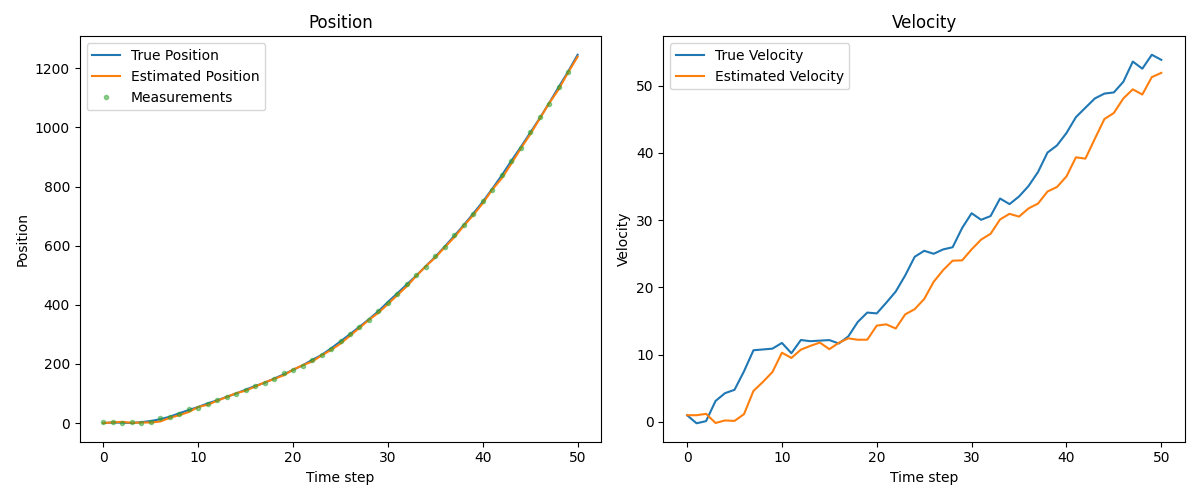
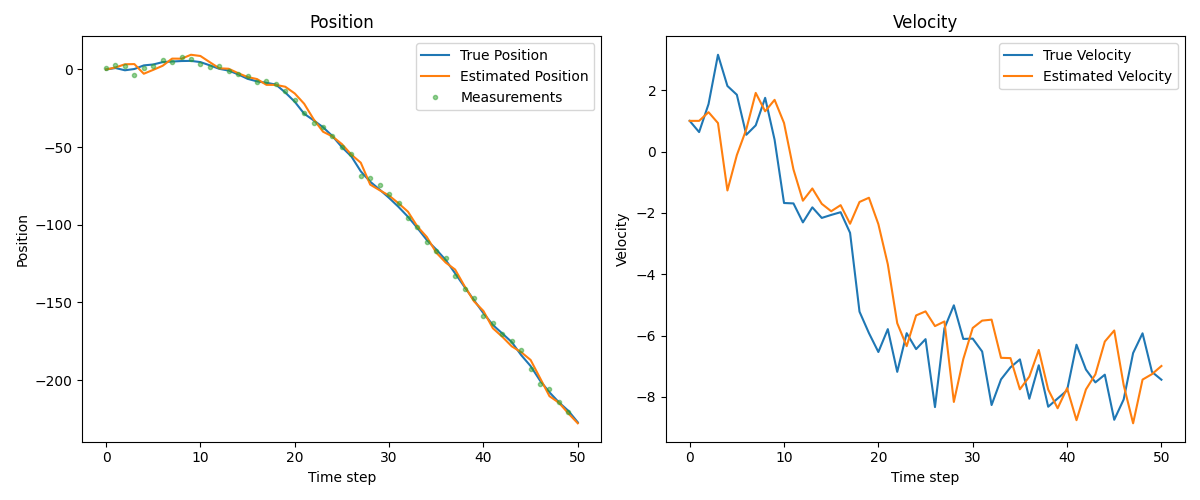
--- 2025-05-04 23:41 ---

diff --git a/simulation.py b/simulation.py
@@ -1,10 +1,12 @@
 import numpy as np
 import matplotlib.pyplot as plt
+import argparse
 
 
+## --- defaulte values for the matrices and parameters (each question will change the relevant parts if needed) --- ##
+## ------------------------------------------------------------------------------------------------------------------- ##
 num_steps = 50
 delta_t = 1.0
-u = np.array([[0]])
 
 # Define system matrices
 F = np.array([[1, delta_t],
@@ -20,62 +22,206 @@ S = np.zeros((2, 1))                 # Cross-covariance (assumed zero)
 # Initial state and covariance
 x0 = np.array([[0], [1]]) 
 P0 = np.eye(2)                        # x0 covariance
-u = np.array([[1]])  
-
-# init arrays for saving the process
-x_true_hist = []
-x_hat_hist = []
-y_hist = []
-
-x_true_hist.append(x0.flatten()) 
-x_hat_hist.append(x0.flatten())
-x_hat_i = x0        # in the kalman filter senario, the initial state is known
-true_x = x0
-
-Pi = P0     # initial condition for the error covariance
-for i in range(num_steps):
-    Yi = H @ true_x + np.random.normal(0, np.sqrt(R))   # taking the current output of the system
-    ei = Yi - H @ x_hat_i                       # updaiting the error i
-    y_hist.append(Yi.item())                
-    Ki = (F @ Pi @ H.T + G @ S) @ np.linalg.inv(H @ Pi @ H.T + R) # updaiting the K(p, i)
-
-    x_hat_i = F @ x_hat_i + Ki @ ei                                   # updaiting the x_hat_i
-    x_hat_hist.append(x_hat_i.flatten())                          # saving the x_hat_i
-
-    w = np.random.multivariate_normal([0, 0], Q).reshape(2, 1)    # simulate the noise w
-    true_x = F @ true_x + B @ u + G @ w                           # updaiting the true x_i
-    x_true_hist.append(true_x.flatten())        # saving the true x_i
+u = np.array([[0]])  
+## ------------------------------------------------------------------------------------------------------------------- ##
 
 
-    Rei = H @ Pi @ H.T + R                                        # updaiting the R(i)
-    Pi = F @ Pi @ F.T + G.T @ Q @ G.T - Ki @ Rei @ Ki.T           # updaiting the error covariance
 
 
-x_true_hist = np.array(x_true_hist)
-x_hat_hist = np.array(x_hat_hist)
-y_hist = np.array(y_hist)
-# --- Plotting ---
-plt.figure(figsize=(12, 5))
 
-# Position plot
-plt.subplot(1, 2, 1)
-plt.plot(x_true_hist[:, 0], label='True Position')
-plt.plot(x_hat_hist[:, 0], label='Estimated Position')
-plt.plot(y_hist, 'o', label='Measurements', markersize=3, alpha=0.5)
-plt.title('Position')
-plt.xlabel('Time step')
-plt.ylabel('Position')
-plt.legend()
+def parse_args():
+    # get the question number from the command line
+    parser = argparse.ArgumentParser(description='Kalman Filter')
+    parser.add_argument('-q', '--question', type=int, default=1, help='Question number') # number the question from 1 to 4 for b-e questions and 5 for question g
+    args = parser.parse_args()
+    if args.question >5 or args.question < 1:
+        print("Question number must be between 1 and 4")
+    return args
 
-# Velocity plot
-plt.subplot(1, 2, 2)
-plt.plot(x_true_hist[:, 1], label='True Velocity')
-plt.plot(x_hat_hist[:, 1], label='Estimated Velocity')
-plt.title('Velocity')
-plt.xlabel('Time step')
-plt.ylabel('Velocity')
-plt.legend()
 
-plt.tight_layout()
-plt.savefig('kalman_filter_q_b.png')
-plt.show()
+def run_q_b():
+    
+    # init arrays for saving the process
+    x_true_hist = []
+    x_hat_hist = []
+    y_hist = []
+
+    x_true_hist.append(x0.flatten()) 
+    x_hat_hist.append(x0.flatten())
+    x_hat_i = x0        # in the kalman filter senario, the initial state is known
+    true_x = x0
+
+    Pi = P0     # initial condition for the error covariance
+    for i in range(num_steps):
+        Yi = H @ true_x + np.random.normal(0, np.sqrt(R))   # taking the current output of the system
+        ei = Yi - H @ x_hat_i                       # updaiting the error i
+        y_hist.append(Yi.item())                
+        Ki = (F @ Pi @ H.T + G @ S) @ np.linalg.inv(H @ Pi @ H.T + R) # updaiting the K(p, i)
+
+        x_hat_i = F @ x_hat_i + Ki @ ei                                   # updaiting the x_hat_i
+        x_hat_hist.append(x_hat_i.flatten())                          # saving the x_hat_i
+
+        w = np.random.multivariate_normal([0, 0], Q).reshape(2, 1)    # simulate the noise w
+        true_x = F @ true_x + B @ u + G @ w                           # updaiting the true x_i
+        x_true_hist.append(true_x.flatten())        # saving the true x_i
+
+
+        Rei = H @ Pi @ H.T + R                                        # updaiting the R(i)
+        Pi = F @ Pi @ F.T + G.T @ Q @ G.T - Ki @ Rei @ Ki.T           # updaiting the error covariance
+
+
+    x_true_hist = np.array(x_true_hist)
+    x_hat_hist = np.array(x_hat_hist)
+    y_hist = np.array(y_hist)
+    # --- Plotting ---
+    plt.figure(figsize=(12, 5))
+
+    # Position plot
+    plt.subplot(1, 2, 1)
+    plt.plot(x_true_hist[:, 0], label='True Position')
+    plt.plot(x_hat_hist[:, 0], label='Estimated Position')
+    plt.plot(y_hist, 'o', label='Measurements', markersize=3, alpha=0.5)
+    plt.title('Position')
+    plt.xlabel('Time step')
+    plt.ylabel('Position')
+    plt.legend()
+
+    # Velocity plot
+    plt.subplot(1, 2, 2)
+    plt.plot(x_true_hist[:, 1], label='True Velocity')
+    plt.plot(x_hat_hist[:, 1], label='Estimated Velocity')
+    plt.title('Velocity')
+    plt.xlabel('Time step')
+    plt.ylabel('Velocity')
+    plt.legend()
+
+    plt.tight_layout()
+    plt.savefig('kalman_filter_q_b.png')
+    plt.show()
+
+def run_q_c():
+        # init arrays for saving the process
+    trace_P_hist = []
+    trace_Kp_hist = []
+
+    x_hat_i = x0        # in the kalman filter senario, the initial state is known
+    true_x = x0
+
+    Pi = P0     # initial condition for the error covariance
+    for i in range(num_steps):
+        Yi = H @ true_x + np.random.normal(0, np.sqrt(R))   # taking the current output of the system
+        ei = Yi - H @ x_hat_i                       # updaiting the error i
+        Ki = (F @ Pi @ H.T + G @ S) @ np.linalg.inv(H @ Pi @ H.T + R) # updaiting the K(p, i)
+
+        x_hat_i = F @ x_hat_i + Ki @ ei                                   # updaiting the x_hat_i
+
+        w = np.random.multivariate_normal([0, 0], Q).reshape(2, 1)    # simulate the noise w
+        true_x = F @ true_x + B @ u + G @ w                           # updaiting the true x_i
+
+
+        Rei = H @ Pi @ H.T + R                                        # updaiting the R(i)
+        Pi = F @ Pi @ F.T + G.T @ Q @ G.T - Ki @ Rei @ Ki.T           # updaiting the error covariance
+
+        trace_P_hist.append(np.trace(Pi))
+        trace_Kp_hist.append(np.trace(Ki))
+
+
+    trace_P_hist = np.array(trace_P_hist)
+    trace_Kp_hist = np.array(trace_Kp_hist)
+    # --- Plotting ---
+    plt.figure(figsize=(12, 5))
+
+    # Plot trace of Pi
+    plt.subplot(1, 2, 1)
+    plt.plot(trace_P_hist, label='Trace of P')
+    plt.title('Trace of Error Covariance (P)')
+    plt.xlabel('Time step')
+    plt.ylabel('Trace(P)')
+    plt.legend()
+
+    # Plot trace of Kalman gain Kp
+    plt.subplot(1, 2, 2)
+    plt.plot(trace_Kp_hist, label='Trace of Kp')
+    plt.title('Trace of Kalman Gain (Kp)')
+    plt.xlabel('Time step')
+    plt.ylabel('Trace(Kp)')
+    plt.legend()
+
+    plt.tight_layout()
+    plt.savefig('question_c.png')
+    plt.show()
+
+def run_q_d():
+    num_runs = 1000
+    # To store position estimation errors across runs
+    kalman_errors = np.zeros((num_runs, num_steps))
+    naive_errors = np.zeros((num_runs, num_steps))
+
+    for run in range(num_runs):
+        # Initial states
+        x0 = np.array([[0], [1]])  # true initial state
+        x_hat = x0.copy()          # initial Kalman estimate
+        P = np.eye(2)              # initial error covariance
+
+        true_x = x0.copy()
+
+        for t in range(num_steps):
+            # Simulate measurement
+            y = H @ true_x + np.random.normal(0, np.sqrt(R))
+
+            # --- Kalman Predictor ---
+            e = y - H @ x_hat
+            Re = H @ P @ H.T + R
+            Kp = (F @ P @ H.T + G @ S) @ np.linalg.inv(Re)
+            x_hat = F @ x_hat + Kp @ e
+            P = F @ P @ F.T + G.T @ Q @ G.T - Kp @ Re @ Kp.T
+
+            # --- Naive Estimator ---
+            naive_pos = y.item()  # just take measurement as position estimate
+
+            # --- Store squared errors (only for position) ---
+            true_pos = true_x[0, 0]
+            kalman_errors[run, t] = (x_hat[0, 0] - true_pos) ** 2
+            naive_errors[run, t] = (naive_pos - true_pos) ** 2
+
+            # --- True system update ---
+            w = np.random.multivariate_normal([0, 0], Q).reshape(2, 1)
+            true_x = F @ true_x + B @ u + G @ w
+
+        # Compute error variance over all runs
+        kalman_var = np.mean(kalman_errors, axis=0)
+        naive_var = np.mean(naive_errors, axis=0)
+
+    # --- Plotting ---
+    plt.figure(figsize=(10, 5))
+    plt.plot(kalman_var, label='Kalman Filter Error Variance (position)')
+    plt.plot(naive_var, label='Naive Estimator Error Variance (position)')
+    plt.title('Monte Carlo: Position Estimation Error Variance')
+    plt.xlabel('Time step')
+    plt.ylabel('Variance')
+    plt.legend()
+    plt.grid(True)
+    plt.tight_layout()
+    plt.savefig('question_d.png')
+    plt.show()
+
+
+def main(args):
+    # get the question number from the command line
+    question = args.question
+    if question == 1:
+        run_q_b()
+    elif question == 2:
+        run_q_c()
+    elif question == 3:
+        run_q_d()
+    elif question == 4:
+        run_q_e()
+    elif question == 5:
+        run_q_g()
+
+
+if __name__ == "__main__":
+    # parse arguments
+    args = parse_args()
+    main(args)
